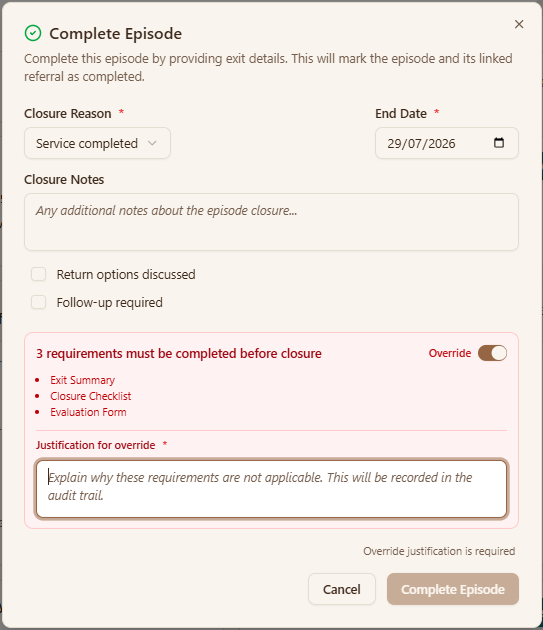
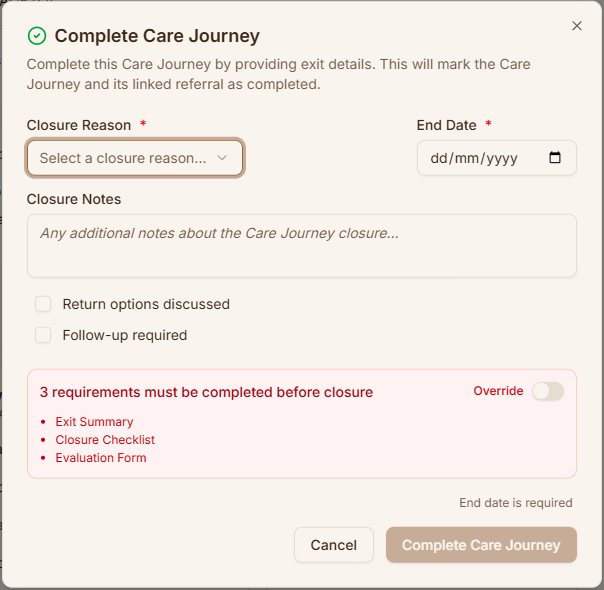
docs: illustrate the referrals, clients and episodes pages
Five more captures arrived. Four of them add screenshots to reference
pages that had none at all — the entries list, the in-progress care
journeys list, a person's record, and the whanau tab. They use <Screen>
rather than a plain image, so the 1446px-wide ones can be opened at full
size instead of being squeezed into an 800px column.

Two needed painting out first, both recorded in
tools/crop_dashboard_images.py:

- The care journeys list showed three colleagues' names down its whole
  Assigned Staff column. The column is blanked and its heading kept, so
  the page can still explain what it is for.
- The client record showed a street address. The phone, email and
  licence number on that screen are already masked by the application;
  the address was not, and an address beside a name and a date of birth
  is the most identifying combination in any of these captures. Its
  label survives. An <b>XSSTEST</b> string that had been typed into the
  same field went with it.

The fifth capture resolves an item that was on MJ's list rather than
Claude's. The closure dialog now reads "Complete Care Journey" — the
frontend is applying terminology to that modal, which it was not when
the manual shipped. The manual no longer has to name two possible
labels and hope; it describes the action by what it does, notes that
the wording follows the organisation's own word, and now also documents
the Override toggle and the named requirements that block a closure.

diff --git a/tools/crop_dashboard_images.py b/tools/crop_dashboard_images.py
@@ -41,6 +41,10 @@ ACTIVE = 'cw-dash-active-cases.png'           # 1099 x 727
 FOLLOWUP = 'cw-dash-act-need-follow-up.png'   # 1097 x 222
 INTAKE = 'intake-dash-clean.png'              #  957 x 916
 TEAM = 'manager-dash-multiservice..png'       # 1653 x 854
+ENTRIES = 'referrals-list.png'                # 1454 x 840
+JOURNEYS = 'care-journey-list.png'            # 1454 x 861
+CLIENT = 'client-page.png'                    # 1454 x 755
+WHANAU = 'whanau-members.png'                 #  840 x 549
 
 # Painted out before cropping, because the repo is public and these are real
 # colleagues rather than client fixtures. Boxes are in source coordinates;
@@ -50,6 +54,19 @@ REDACT = {
 	TEAM: [
 		# "Keriana Fox" in the Case Worker column of Service Users Needing Contact.
 		([1100, 818, 110, 26], None),
+	],
+	JOURNEYS: [
+		# The whole Assigned Staff column: three colleagues' names down ten rows.
+		# The column heading above it is deliberately left in place, so the page
+		# can still say what the column is for.
+		([898, 262, 178, 516], None),
+	],
+	CLIENT: [
+		# Street address. The phone, email and licence number on this screen are
+		# already masked by the application; the address is not, and a real
+		# address beside a name and a date of birth is the most identifying
+		# combination on any of these screens.
+		([706, 482, 292, 26], None),
 	],
 }
 
@@ -102,6 +119,29 @@ CROPS = [
 		TEAM, [28, 680, 1600, 172],
 		'img/dashboards/supervisor/needing-contact.png',
 		'Service users nobody has been in touch with recently.',
+	),
+	# The list and record pages below keep the left-hand nav, unlike the
+	# dashboard crops: these images are partly about where in the menu you are,
+	# and the highlighted item is the point.
+	(
+		ENTRIES, [0, 0, 1446, 838],
+		'img/referrals/entries-list.png',
+		'The entries list, with its draft/active/closed tabs.',
+	),
+	(
+		JOURNEYS, [0, 0, 1446, 858],
+		'img/service-episodes/care-journeys-list.png',
+		'Care journeys in progress, filtered by state.',
+	),
+	(
+		CLIENT, [0, 0, 1446, 753],
+		'img/clients/client-record.png',
+		"A person's record: personal details, contact details and identity documents.",
+	),
+	(
+		WHANAU, [0, 0, 832, 547],
+		'img/clients/whanau-members.png',
+		'The whanau tab, listing family members and their roles.',
 	),
 ]
 
